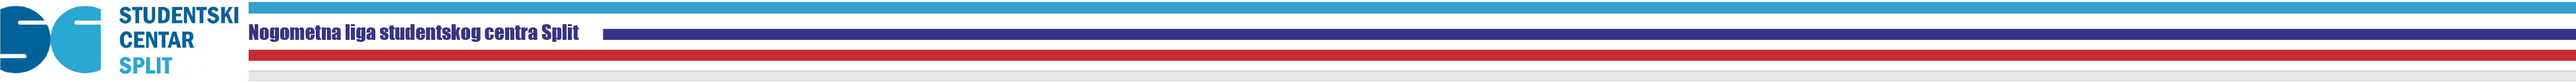
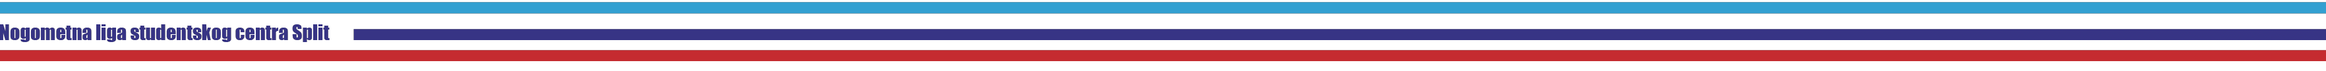
Committing local changes before merge

diff --git a/Projekt/CSS/style.css b/Projekt/CSS/style.css
@@ -1,9 +1,3 @@
-header {
-    background-image: url('Slike/header.png');
-    background-size: cover;
-    background-position: center;
-    height: 300px; /* Adjust the height as needed */
-}
 
 
 *{
@@ -12,22 +6,32 @@ header {
   box-sizing: border-box;
   font-family: 'Poppins', sans-serif;
 }
-nav{
- position: fixed;
- left: 0;
- top: 0;
- width: 100%;
- height: 75px;
- background: #2980b9;
- box-shadow: 0 5px 10px rgba(0, 0, 0, 0.1);
+
+header {
+  position: relative;
 }
+
+.headerImg {
+  width: 100%; /* Ensure the image fills the header horizontally */
+  height: auto; /* Maintain aspect ratio */
+  display: block;
+}
+
+nav {
+  position: absolute;
+  top: 100%; /* Position the nav just below the header image */
+  width: 100%;
+  background: #2980b9; /* Adjust as needed */
+  box-shadow: 0 5px 10px rgba(0, 0, 0, 0.1);
+}
+
+
 nav .navbar{
  display: flex;
  align-items: center;
  justify-content: space-between;
  height: 100%;
  max-width: 90%;
- background: #2980b9;
  margin: auto;
 }
 nav .navbar .logo a{

diff --git a/Projekt/index.html b/Projekt/index.html
@@ -10,11 +10,12 @@
     <!-- Header Section -->
     <header>
         <div class="container">
-            <img src="Slike/your-header-image.png" alt="Header Image">
+        <img src="Slike/header.png" alt="Header Image" class="headerImg">
+
             <!-- Navbar -->
             <nav>
                 <div class="navbar">
-                  <div class="logo"><a href="#">Studentska liga</a></div>
+                  <div class="logo"><a href="#">SCST</a></div>
                   <ul class="menu">
                     <li><a href="#standings">Tablica</a></li>
                     <li><a href="#news">Vijesti</a></li>
@@ -59,6 +60,9 @@
         </div>
     </footer>
 
+    <div class="button">
+        <a href="#Home"><i class="fas fa-arrow-up"></i></a>
+      </div>
     <!--Skripte JS datoteka ispod ove linije-->
     <script></script>
     <!--Skripte JS datoteka iznad ove linije-->
